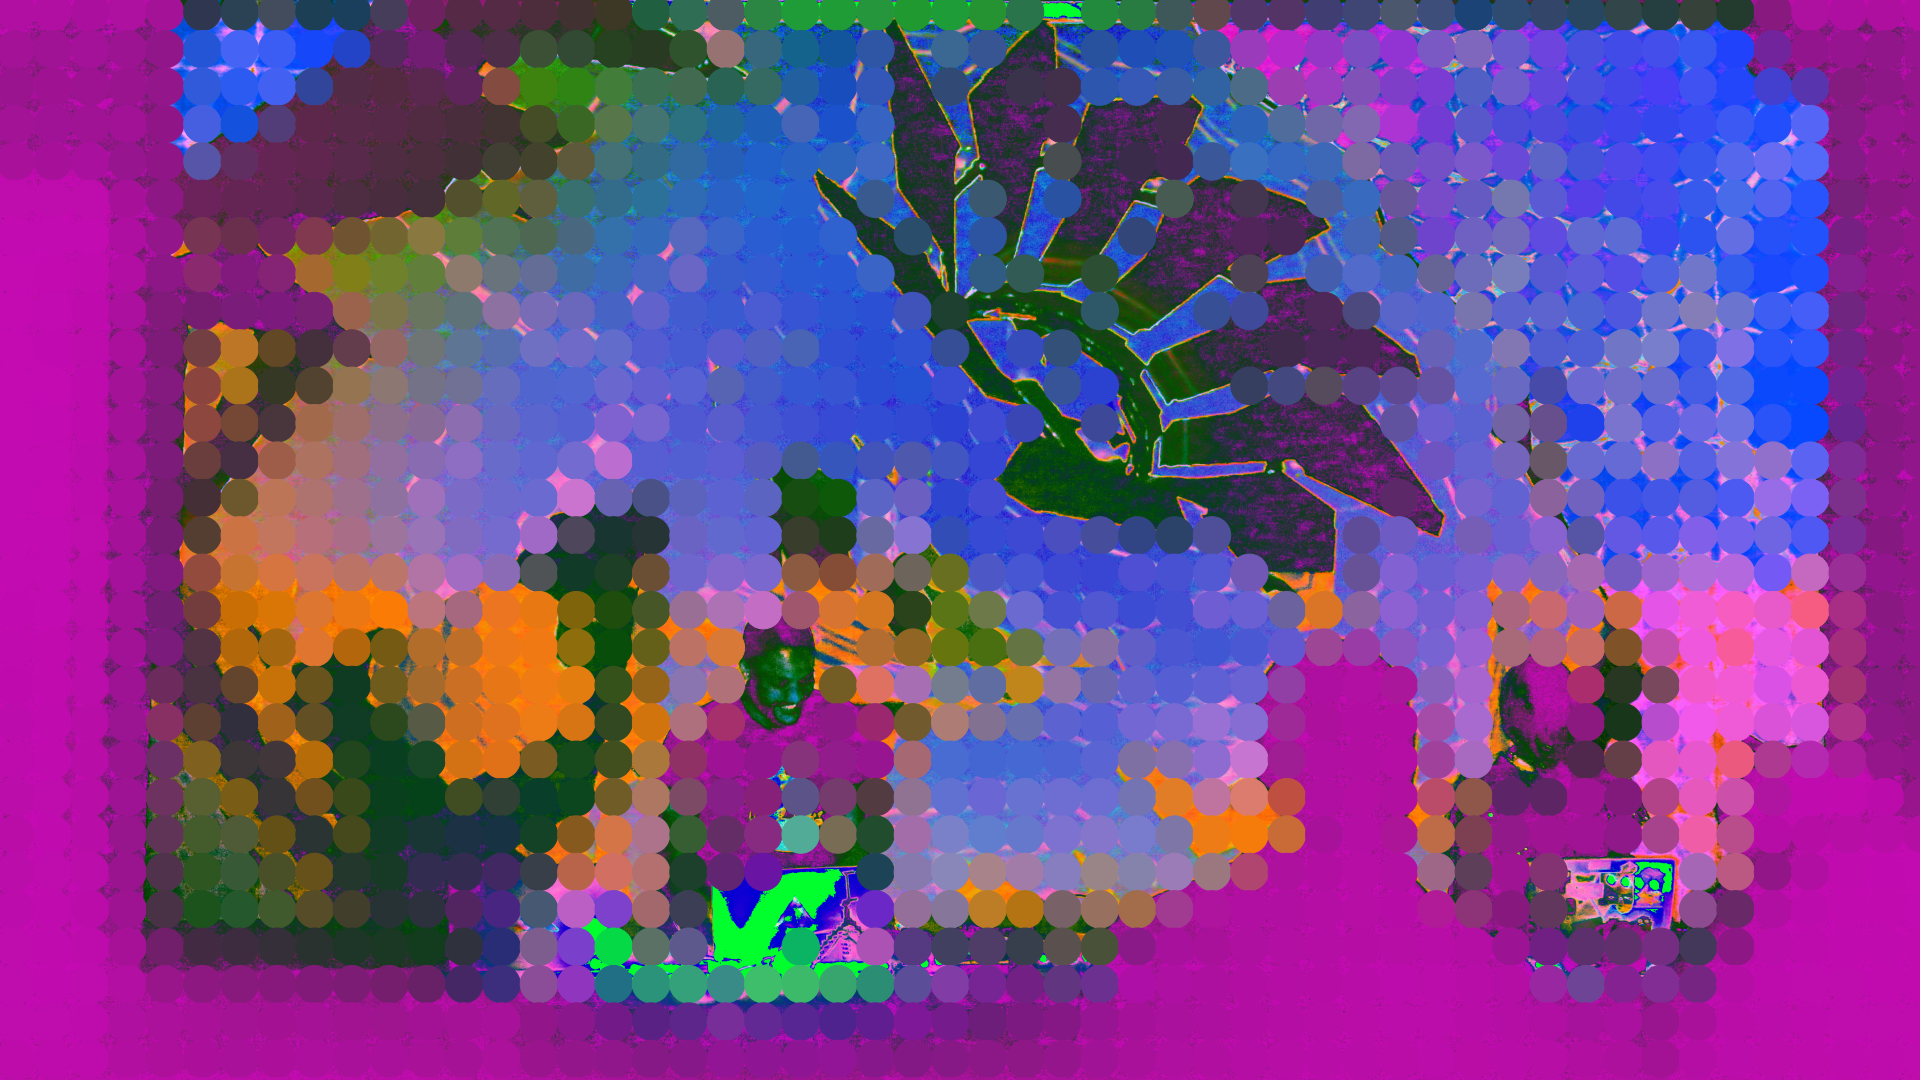
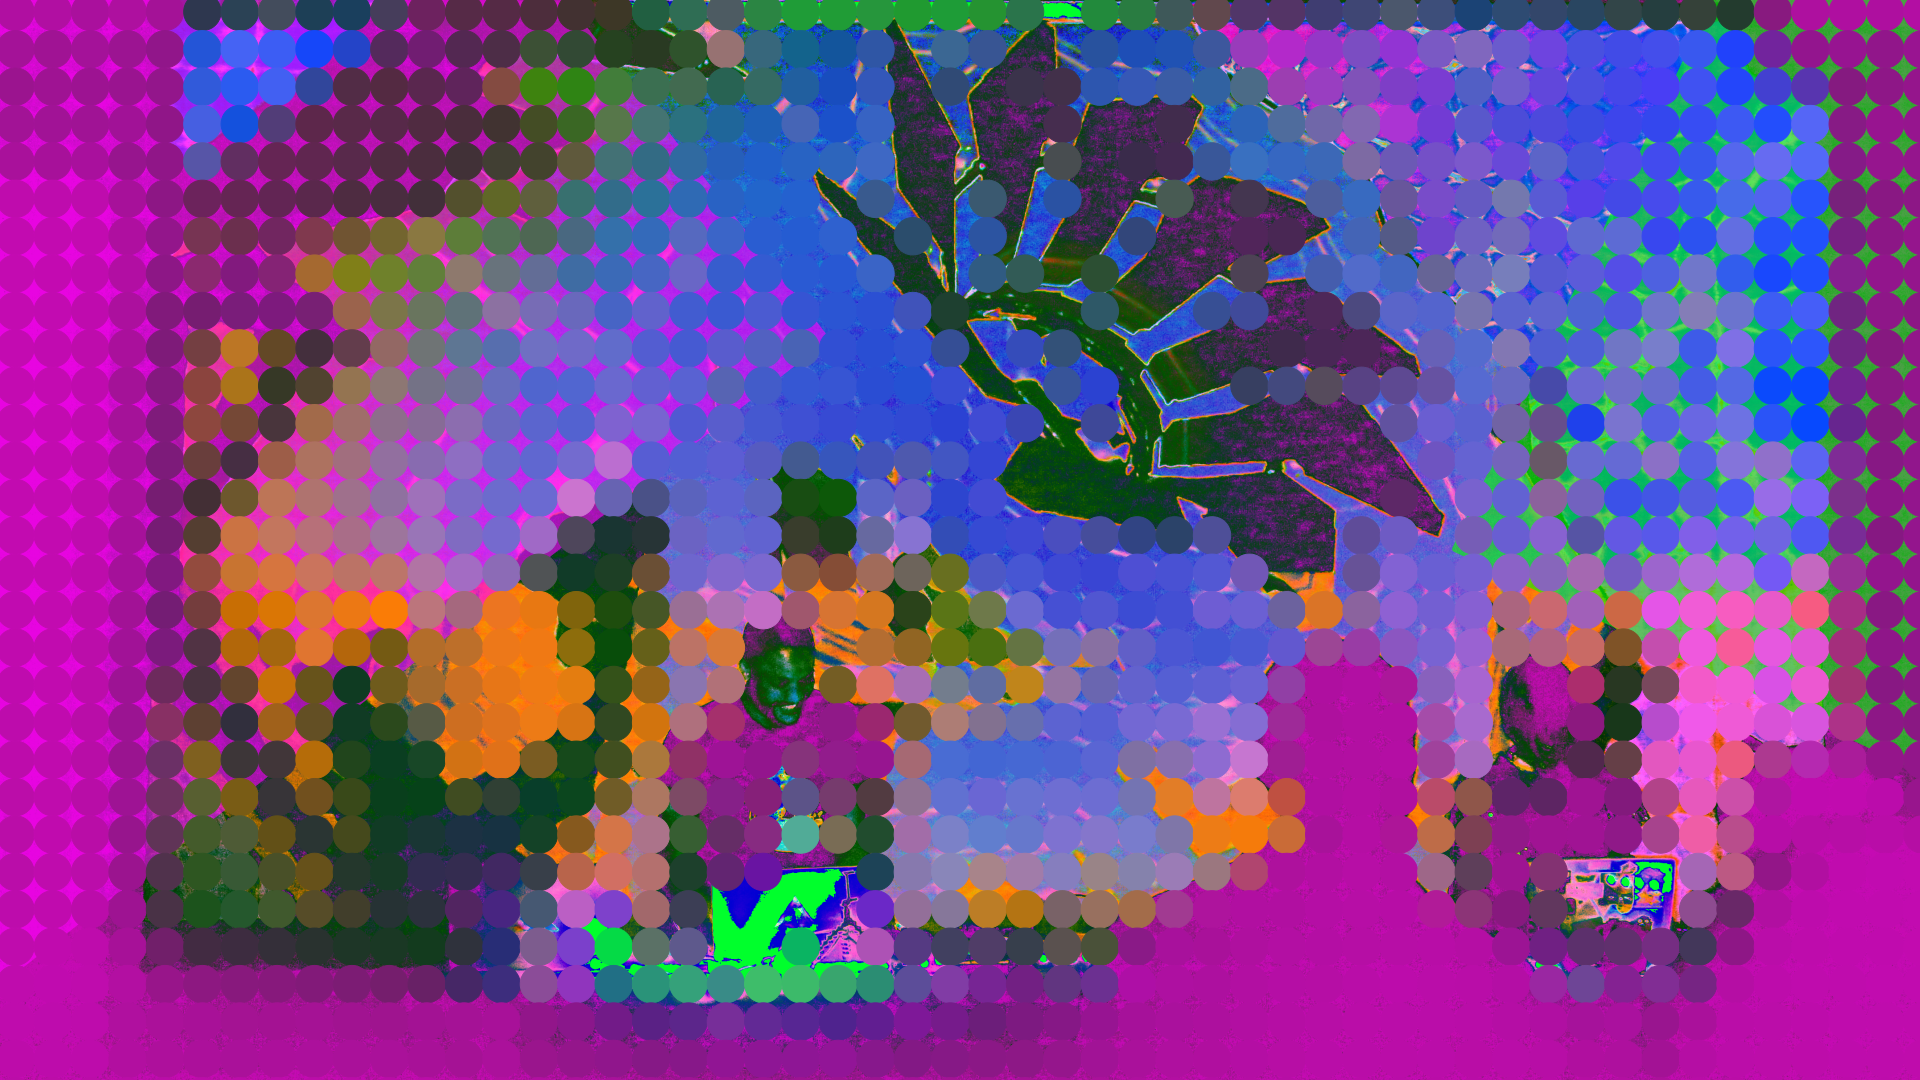
add coverpage

Changed region(s): [[0.0, 0.0, 0.4375, 0.8556], [0.75, 0.0, 1.0, 0.7028], [0.0, 0.8556, 0.0312, 0.8861]]

diff --git a/docs/index.html b/docs/index.html
@@ -74,6 +74,8 @@
         --cover-button-background: var(--cover-button-primary-background);
         --cover-button-color: var(--cover-button-primary-color);
         --cover-button-text-decoration-color: var(--cover-button-primary-color);
+        --cover-background-mask-opacity: 0;
+        --cover-background-color: none;
 
       }
     </style>

diff --git a/docs/_coverpage.md b/docs/_coverpage.md
@@ -1,9 +1,16 @@
 # 💻
 
 <h1 id="cover-heading">
-  Docsify Open MultiCourse Hub
+  DECODED --
 </h1>
+<h2 id="cover-heading">
+  An Artistic Livecoding Workshop
+</h2>
 
-[CPT363-1](cpt363-1/home.md)
-[CPT363-2](cpt363-2/home.md)
-[CPT363-3](cpt363-3/home.md)
+[Estuary](estuary/README.md)
+[Audio (minitidal)](minitidal/README.md)
+[Visual (punctual)](punctual/README.md)
+
+<!-- background image -->
+![](assets/images/antonio_3_background.png)
+
